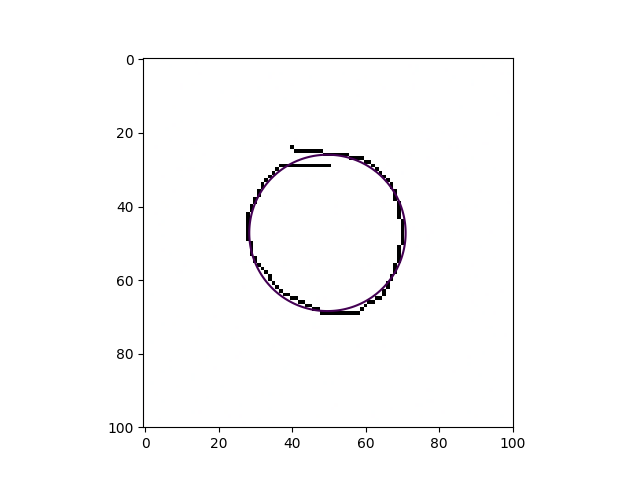
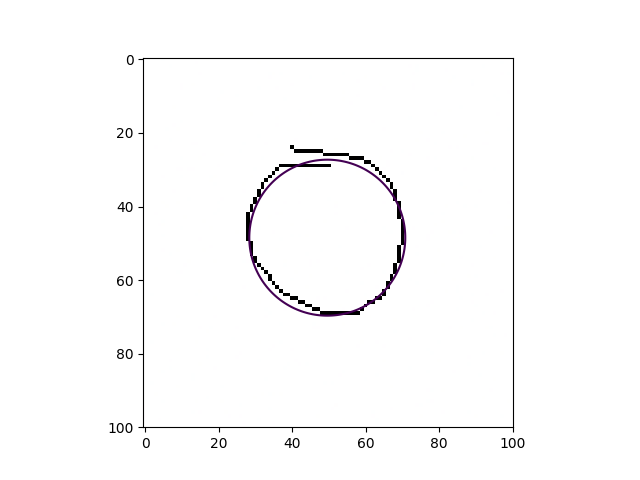
feat: Linear Alg A3 P4 Ver2

diff --git a/LinearAlg/A3/A3.py b/LinearAlg/A3/A3.py
@@ -15,7 +15,7 @@ def radixSort(x, col):
         n = len(a)
         res = [0] * n
         cnt = [0] * 10
-
+        
         for i in range(n):
             cnt[(a[i]//(10**d))%10] += 1
 
@@ -36,90 +36,41 @@ def radixSort(x, col):
 # For question (4)
 # you cannot use x to compute the center and the radius inside this function.
 def dataSampling(x):
-    xs = radixSort(deepcopy(x), 0)
+    # Radix sort by y value
+    # Using radix sort for O(n) complexity
     ys = radixSort(deepcopy(x), 1)
-    mid_x = xs[len(xs)//2][0]
+    # Get the median
     mid_y = ys[len(ys)//2][1]
 
-    low_x = xs[len(xs)//5][0]
-    high_x = xs[len(xs)//5*4][0]
+    # Seperate points into two sets, upper and lower
+    upper = list(filter(lambda p: p[1] >= mid_y, x))
+    lower = list(filter(lambda p: p[1] < mid_y, x))
+
+    # Sort the sets by x value
+    upper = radixSort(upper, 0)
+    lower = radixSort(lower, 0)
 
     pts = []
-    for p in xs:
-        if (p[0] >= mid_x and p[1] <= mid_y):
-            if (p not in pts):
-                pts.append(p)
-            break
-    for p in xs:
-        if (p[0] >= mid_x and p[1] > mid_y):
-            if (p not in pts):
-                pts.append(p)
-            break
-    for p in xs:
-        if (p[0] >= low_x and p[1] <= mid_y):
-            if (p not in pts):
-                pts.append(p)
-            break
-    for p in xs:
-        if (p[0] >= low_x and p[1] > mid_y):
-            if (p not in pts):
-                pts.append(p)
-            break
-    for p in xs:
-        if (p[0] >= high_x and p[1] <= mid_y):
-            if (p not in pts):
-                pts.append(p)
-            break
-    for p in xs:
-        if (p[0] >= high_x and p[1] > mid_y):
-            if (p not in pts):
-                pts.append(p)
-            break
-    for p in ys:
-        if (p[1] >= mid_y and p[0] <= mid_x):
-            if (p not in pts):
-                pts.append(p)
-            break
-    for p in ys:
-        if (p[1] >= mid_y and p[0] > mid_x):
-            if (p not in pts):
-                pts.append(p)
-            break
+    # Function to avoid adding duplicate points
+    def addPt(p):
+        if p not in pts:
+            pts.append(p)
+
+    # Add the 96th percentile x values
+    addPt(upper[len(upper) // 96])
+    addPt(upper[-len(upper)//96 - 1])
+
+    # Add median, 20th percentile, and 80th percentile of the upper set
+    addPt(upper[len(upper) // 2])
+    addPt(upper[len(upper) // 5])
+    addPt(upper[-len(upper)//5 - 1])
+
+    # Add median, 20th percentile, and 80th percentile of  the lower set
+    addPt(lower[len(lower) // 2])
+    addPt(lower[len(lower) // 5])
+    addPt(lower[-len(lower)//5 - 1])
+
     return pts
-    # xs = list(map(lambda p: p[0], x))
-    # ys = list(map(lambda p: p[1], x))
-
-    # x_avg, y_avg = np.average(x, axis=0)
-    # x_std, y_std = np.std(x, axis=0)
-
-    # print(x_avg, y_avg, x_std, y_std)
-
-
-    # xs = list(filter(lambda x: abs(x - x_avg) < 2*x_std, xs))
-    # ys = list(filter(lambda x: abs(x - x_avg) < 2*y_std, ys))
-
-    # max_x = max(xs)
-    # min_x = min(xs)
-
-    # max_y = max(ys)
-    # min_y = min(ys)
-
-    # tar_x = [(max_x * i + min_x * (5-i)) // 5 for i in range(1, 6)]
-    # tar_y = [(max_y * i + min_y * (5-i)) // 5 for i in range(1, 6)]
-
-    # print(tar_x, tar_y)
-
-    # for xx in tar_x:
-    #     plt.plot([xx, xx], [min_y, max_y])
-
-    # for yy in tar_y:
-    #     plt.plot([min_x, max_x], [yy, yy])
-
-
-    # pts = list(filter(lambda p: p[0] in tar_x or p[1] in tar_y, x))
-    # print(pts)
-    # plt.scatter(*list(zip(*pts)))
-    # return pts
 
 def myNormalEquation(A, b):
     lhs = np.matmul(A.T, A)
@@ -238,7 +189,7 @@ def judge(points) :
 
 
 
-def main(file, mode="circle", no_sampling=False) :
+def main(file, mode="circle", no_sampling=False, draw_sample=False) :
     # read image and get circle points
     #im1 = img.imread('puddle.png')
     im1 = img.imread(file)
@@ -287,8 +238,9 @@ def main(file, mode="circle", no_sampling=False) :
     axes.contour(b, a, C, [0])
     axes.set_aspect(1)
 
-    # xxx, yyy = zip(*sp)
-    # axes.scatter(yyy, xxx)
+    if draw_sample:
+        xxx, yyy = zip(*sp)
+        axes.scatter(yyy, xxx)
 
     # from scipy.spatial import Voronoi, voronoi_plot_2d
     # vor = Voronoi(list(zip(yyy, xxx)))
@@ -313,14 +265,12 @@ def main(file, mode="circle", no_sampling=False) :
     judge(points)
     print("="*50)
 
-# circle_files = ['circle6.png', '1.png', '2.png', '3.png', 'case1.png', 'case2.png', 'case3.png', 'case4.png', 'case5.png', 'puddle.png', 'x=y.png']
-# circle_files = ["1.png", "circle1.png", "circle2.png", "circle3.png"]
-ellipse_files = ['ellipse1.png', "ellipse2.png", "3.png"]
+circle_files = ['circle6.png', '1.png', '2.png', '3.png', 'case1.png', 'case2.png', 'case3.png', 'case4.png', 'case5.png', 'puddle.png', 'x=y.png']
+circle_files += ["1.png", "circle1.png", "circle2.png", "circle3.png"]
+# ellipse_files = ['ellipse1.png', "ellipse2.png", "3.png"]
 
-# for f in circle_files :
-#     main(f, mode="normal_eq", no_sampling=True)
-for f in ellipse_files :
-    main(f, mode="ellipse", no_sampling=True)
+for f in circle_files :
+    main(f, mode="circle")
 
 # main('x=y.png', mode="circle")
 # main('2.png', mode="circle")
